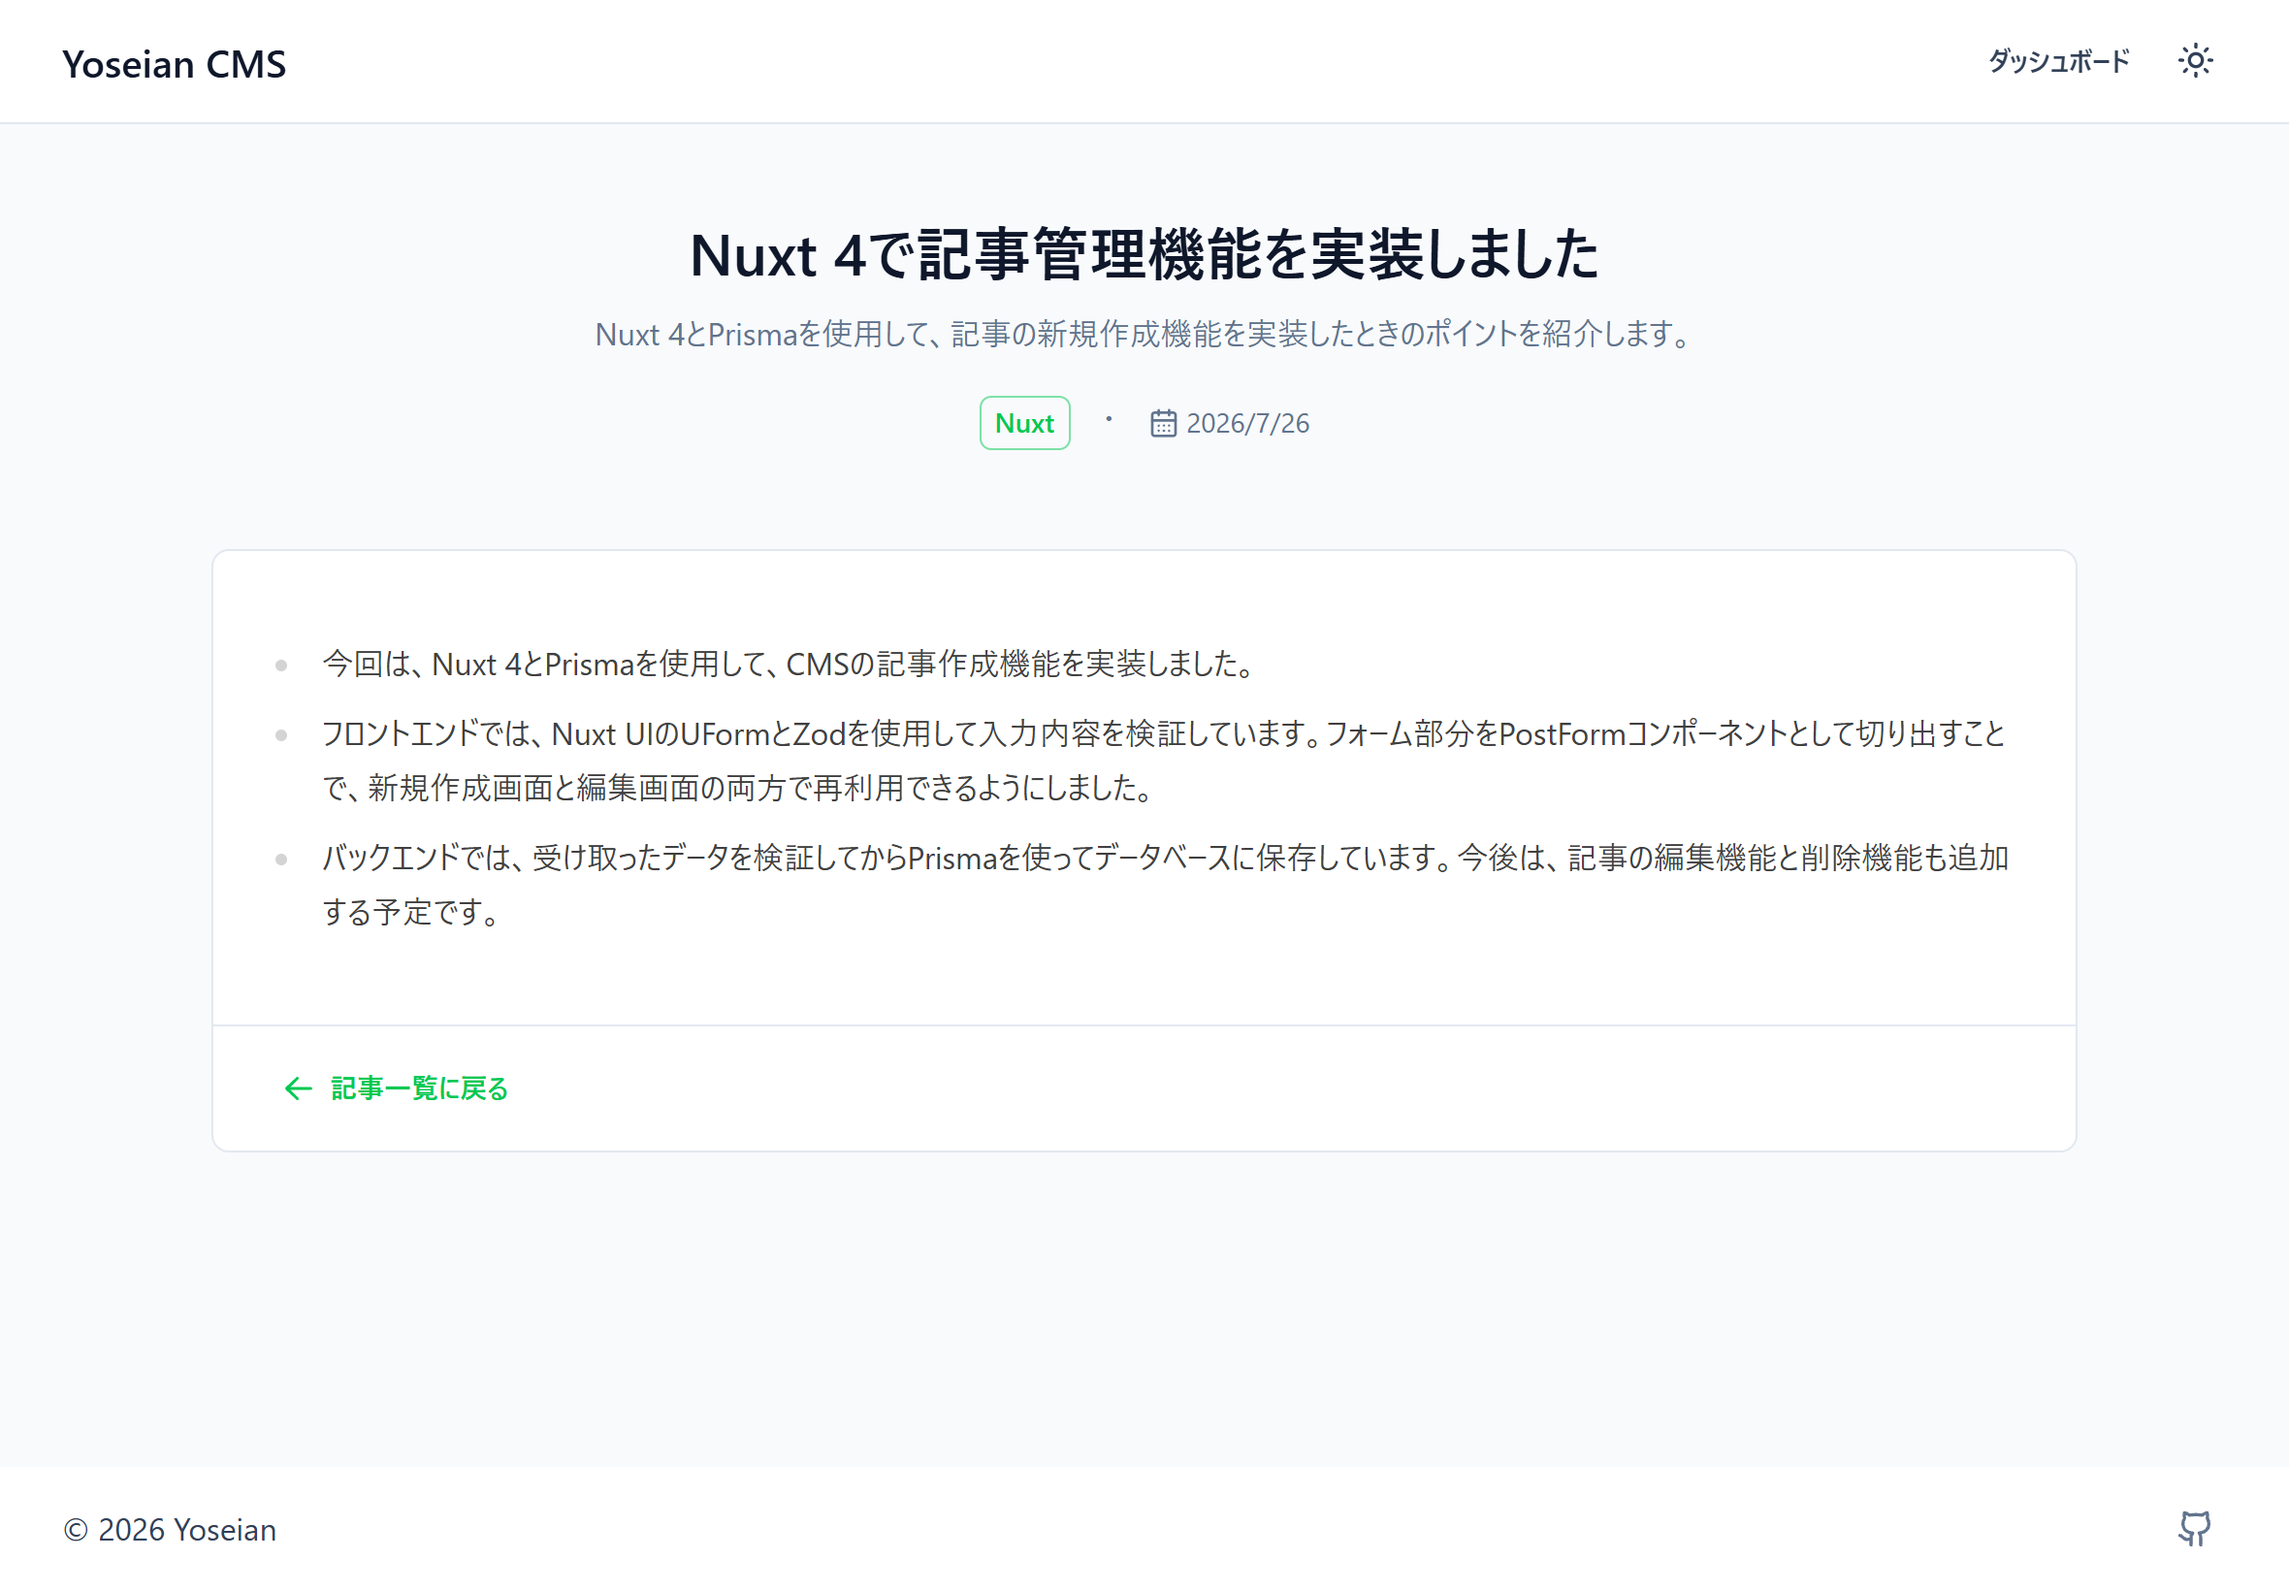
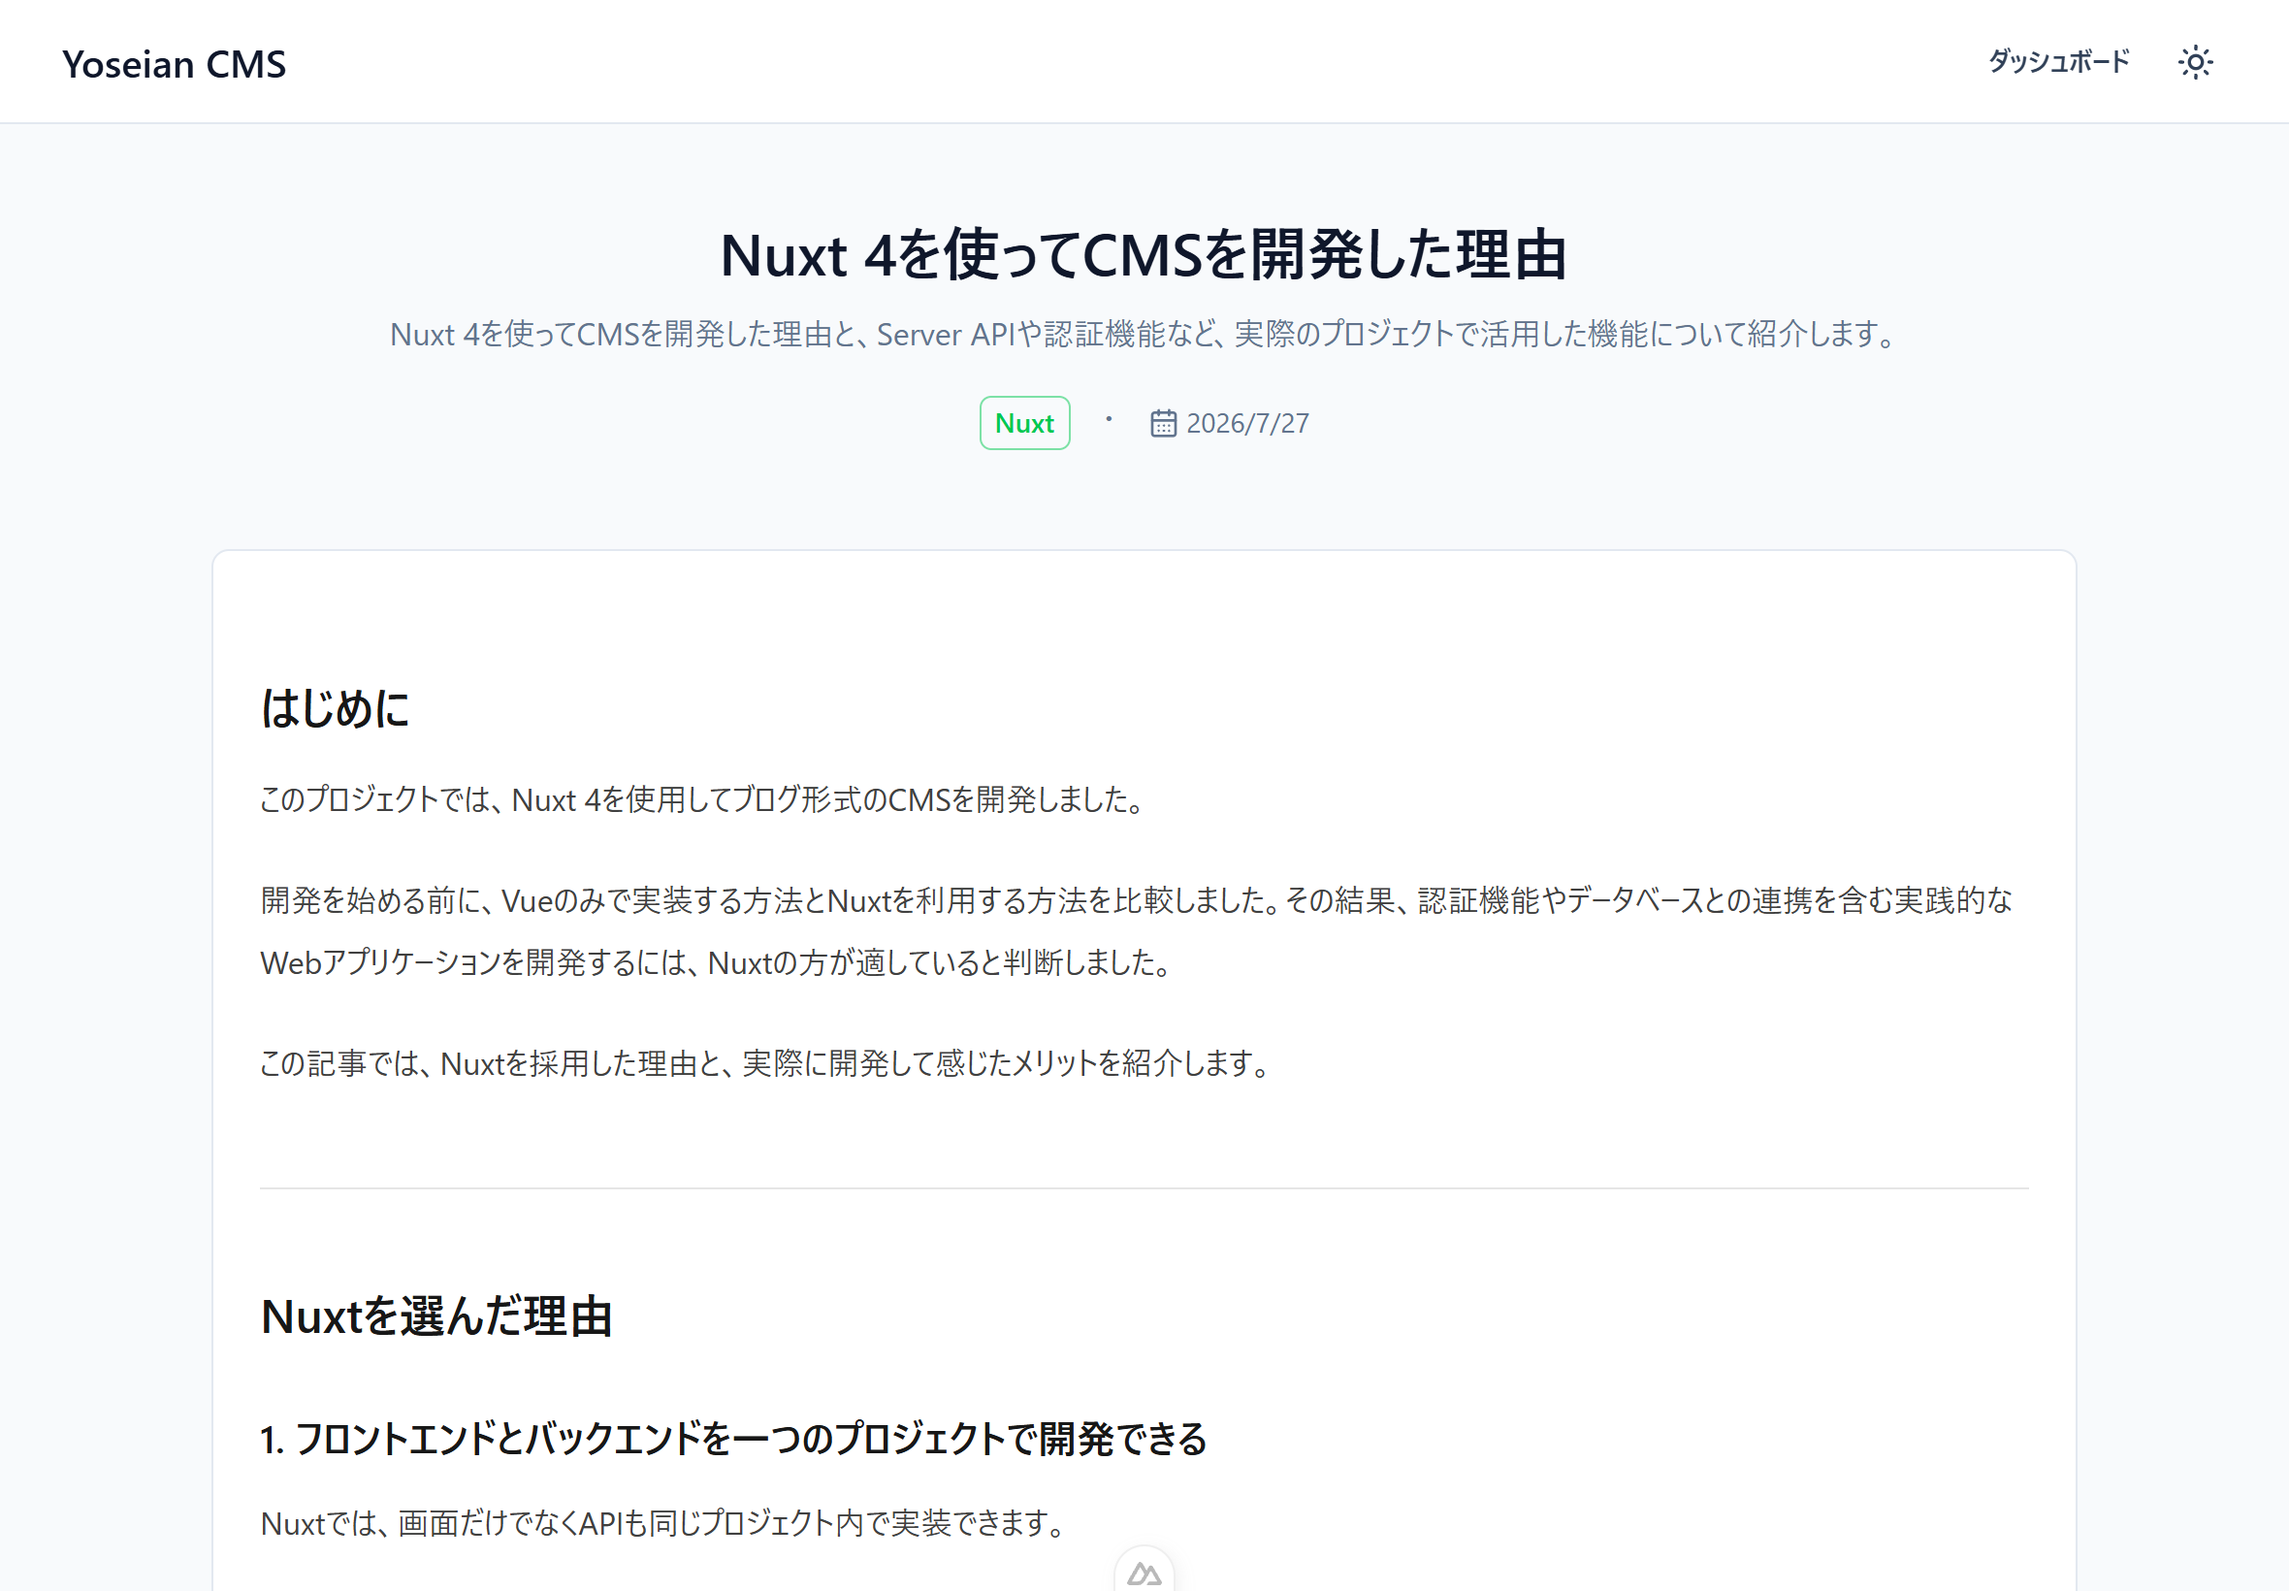
fix: Markdown本文の表示スタイルを調整

diff --git a/app/components/MarkdownRenderer.vue b/app/components/MarkdownRenderer.vue
@@ -6,7 +6,27 @@ defineProps<{
 }>()
 </script>
 <template>
-    <article class="prose prose-neutral max-w-none dark:prose-invert">
+    <div class="
+        prose prose-neutral dark:prose-invert
+        max-w-none
+        prose-code:before:content-none
+        prose-code:after:content-none
+        prose-code:rounded
+        prose-code:px-1.5
+        prose-code:py-0.5
+        prose-code:bg-gray-100
+        prose-code:text-gray-800
+        dark:prose-code:bg-gray-800
+        dark:prose-code:text-gray-100
+        prose-li:my-1
+        prose-h2:mt-10
+        prose-h2:mb-4
+        prose-h3:mt-8
+        prose-h3:mb-3
+        prose-p:leading-8
+        prose-p:mb-5
+        prose-pre:overflow-x-auto
+      ">
         <Comark :markdown="content" />
-    </article>
+    </div>
 </template>
